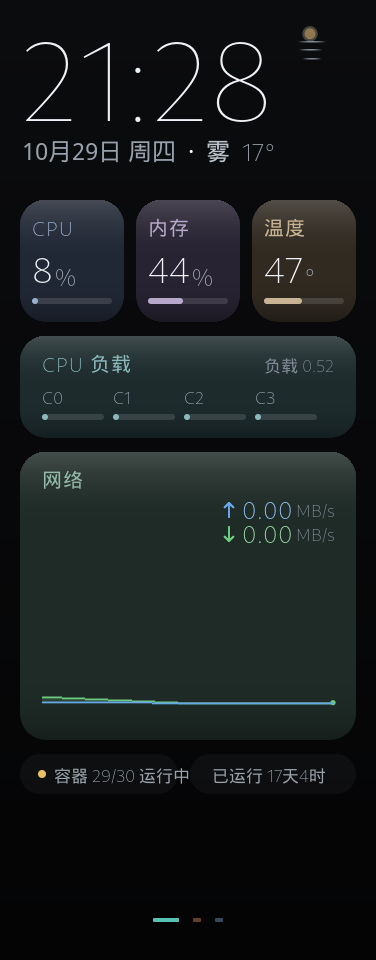
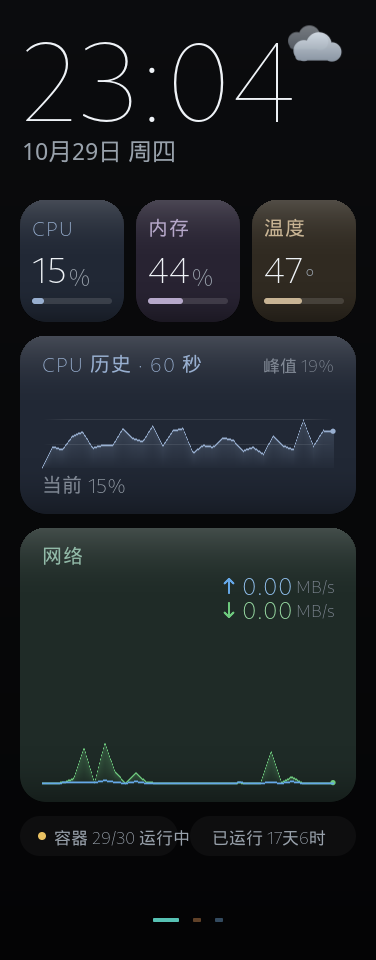
docs: 更新首页/详情页截图，预览工具补齐真机细节
截图换成新布局（首页 CPU 历史曲线 / 详情页每核明细）。

顺带把 cmd/preview 补成能出"能发出去的图"：
- 加 DrawDots：页签圆点由 renderer 在页面之外画，少了它截图比真机
  矮一截，拿去当 README 配图会显得假；
- -page 2 一次采样出两页：两页共用同一份快照，曲线才对得上；
- -interval 可配：出截图时用 2000ms 对齐 fastEvery，曲线形状与真机一致，
  默认 120ms 只用于快速看版式；
- 补 UpdateContainers：不采的话 pill 显示「容器 0/0 运行中」，
  和真机的 29/30 不符 —— 不真实的截图没有意义。

详情页每核条 9 → 11px：这台机器常态负载 5~10%，条本来就只有十几像素长，
细条在低值下几乎看不见，"哪个核更忙"就白问了。

diff --git a/cmd/preview/main.go b/cmd/preview/main.go
@@ -21,6 +21,7 @@ import (
 	"image"
 	"image/png"
 	"os"
+	"strings"
 	"time"
 
 	"github.com/veandco/go-sdl2/ttf"
@@ -33,6 +34,7 @@ func main() {
 	out := flag.String("out", "/tmp/cpu-variants.png", "输出 PNG 路径")
 	page := flag.Int("page", -1, "渲染真实页面：0=环境 1=详情；-1=四方案对比图")
 	warm := flag.Int("warm", 30, "真实页面模式的采样预热次数（决定 CPU 曲线长度）")
+	interval := flag.Int("interval", 120, "预热采样间隔（毫秒）。出 README 截图时用 2000，与真机 fastEvery 一致，曲线形状才对得上")
 	flag.Parse()
 
 	if err := ttf.Init(); err != nil {
@@ -48,6 +50,16 @@ func main() {
 	}
 	defer fs.Close()
 
+	// -page 2：一次采样同时出环境页和详情页。两页必须共用同一份快照，
+	// 否则曲线形状对不上，看版式时会误以为"同一台机器两个样"。
+	if *page == 2 {
+		mon := warmUp(*warm, *interval)
+		now := time.Now()
+		writePNG(*out, "-env", ui.RenderRealPage(fs, mon, 0, now))
+		writePNG(*out, "-detail", ui.RenderRealPage(fs, mon, 1, now))
+		return
+	}
+
 	var c *ui.Canvas
 	if *page < 0 {
 		c = ui.RenderCPUVariantsDemo(fs)
@@ -56,21 +68,37 @@ func main() {
 			fmt.Fprintln(os.Stderr, "暂不支持预览该页（系统页依赖真实背光状态）")
 			os.Exit(2)
 		}
-		mon := monitor.NewSystemMonitor()
-		for i := 0; i < *warm; i++ {
-			_ = mon.UpdateCPU()
-			_ = mon.UpdateMemory()
-			_ = mon.UpdateNetwork()
-			if i < *warm-1 {
-				time.Sleep(120 * time.Millisecond)
-			}
-		}
-		_ = mon.UpdateDisk()
-		c = ui.RenderRealPage(fs, mon, *page, time.Now())
+		c = ui.RenderRealPage(fs, warmUp(*warm, *interval), *page, time.Now())
 	}
+	writePNG(*out, "", c)
+}
 
+// warmUp 先真采样若干轮：CPU 历史是 2 秒一点、共 30 点，
+// 不预热就只能画出一两个点。数值全是 /proc 的真实读数。
+func warmUp(n, intervalMs int) *monitor.SystemMonitor {
+	mon := monitor.NewSystemMonitor()
+	for i := 0; i < n; i++ {
+		_ = mon.UpdateCPU()
+		_ = mon.UpdateMemory()
+		_ = mon.UpdateNetwork()
+		if i < n-1 {
+			time.Sleep(time.Duration(intervalMs) * time.Millisecond)
+		}
+	}
+	_ = mon.UpdateDisk()
+	// 容器数也要采：不采的话 ContainersRunning 是零值，首页 pill 会显示
+	// 「容器 0/0 运行中」—— 和真机（29/30）不一致的截图等于假图。
+	mon.UpdateContainers()
+	return mon
+}
+
+// writePNG 落盘；suffix 非空时插在扩展名之前（"x.png" + "-env" → "x-env.png"）。
+func writePNG(path, suffix string, c *ui.Canvas) {
+	if suffix != "" {
+		path = strings.TrimSuffix(path, ".png") + suffix + ".png"
+	}
 	img := &image.RGBA{Pix: c.Pix, Stride: c.W * 4, Rect: image.Rect(0, 0, c.W, c.H)}
-	f, err := os.Create(*out)
+	f, err := os.Create(path)
 	if err != nil {
 		fmt.Fprintln(os.Stderr, "创建文件失败：", err)
 		os.Exit(1)
@@ -80,5 +108,5 @@ func main() {
 		fmt.Fprintln(os.Stderr, "编码 PNG 失败：", err)
 		os.Exit(1)
 	}
-	fmt.Printf("✓ %s  %dx%d  cjk=%s\n", *out, c.W, c.H, fs.Path())
+	fmt.Printf("✓ %s  %dx%d\n", path, c.W, c.H)
 }

diff --git a/internal/ui/pages_m3.go b/internal/ui/pages_m3.go
@@ -551,13 +551,15 @@ func (p *DetailPage) Draw(c *Canvas, d *DrawCtx) {
 			if i < len(cores) {
 				v = clamp(cores[i], 0, 100)
 			}
-			// 位图顶比条顶高 8：20px 字号墨迹在位图顶下 6px、高 13，
-			// 落下去字形中线正好压在 9px 条的垂直中线上
-			DrawTextL(c, fs, fmt.Sprintf("C%d", i), PadX+m3Pad, rowY-8, FzSmall, th.Sub)
-			c.Bar(PadX+m3Pad+40, rowY, CardW-2*m3Pad-40-54, 9, 4, v/100,
+			// 位图顶比条顶高 7：20px 字号墨迹在位图顶下 6px、高 13，
+			// 落下去字形中线压在 11px 条的垂直中线上
+			DrawTextL(c, fs, fmt.Sprintf("C%d", i), PadX+m3Pad, rowY-7, FzSmall, th.Sub)
+			// 条 11px 而不是 9：这台机器常态负载 5~10%，条本来就只有
+			// 十几像素长，细条在低值下几乎看不见，"哪个核更忙"就白问了
+			c.Bar(PadX+m3Pad+40, rowY, CardW-2*m3Pad-40-54, 11, 5, v/100,
 				th.Track, m3Bar(hueTeal, v, 90, th.Danger))
 			DrawTextLR(c, fs, fmt.Sprintf("%.0f%%", v),
-				PadX+CardW-m3Pad, rowY-8, FzSmall, th.Text)
+				PadX+CardW-m3Pad, rowY-7, FzSmall, th.Text)
 		}
 	}
 

diff --git a/internal/ui/preview_page.go b/internal/ui/preview_page.go
@@ -46,5 +46,9 @@ func RenderRealPage(fs *FontSet, mon *monitor.SystemMonitor, page int, now time.
 	case 1:
 		NewDetailPage(mon).Draw(c, d)
 	}
+
+	// 页签圆点由 renderer 在页面之外单独画（y=918）。少了它，预览图
+	// 和真机全屏截图差一截，拿去做 README 配图会"看着不像"。
+	DrawDots(c, pageAccents, page, 918)
 	return c
 }

diff --git a/README.md b/README.md
@@ -12,7 +12,7 @@
 |:---:|:---:|:---:|
 | ![环境](docs/screenshots/env.png) | ![详情](docs/screenshots/detail.png) | ![系统](docs/screenshots/system.png) |
 
-*三页触摸翻页 · 112px 大时钟+天气融合 · 每卡一色的低饱和 tonal 配色 · 截图中的 IP 与面板令牌已单独打码*
+*三页触摸翻页 · 112px 大时钟+天气融合 · 首屏放趋势（CPU 60 秒曲线）、每核明细在详情页 · 每卡一色的低饱和 tonal 配色 · 截图中的 IP 与面板令牌已单独打码*
 
 **对比旧版五页（v0.3.0 及以前）的变化**：
 
